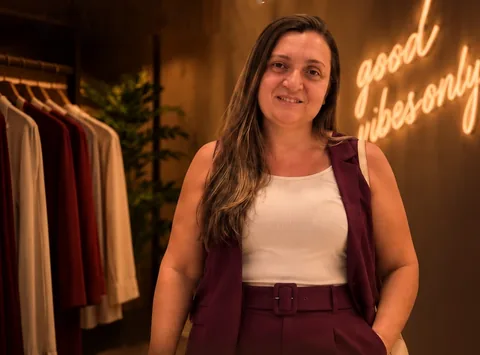
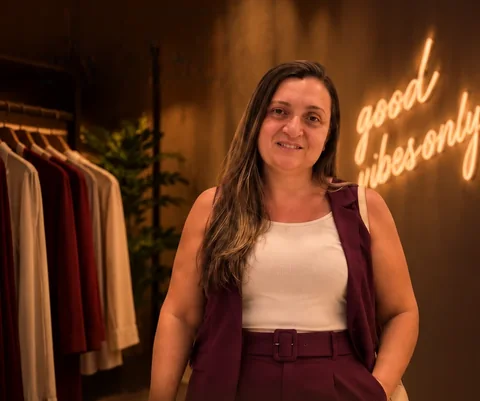
Fix about portrait crop; keep hero layers together on scroll
- About: new portrait crop with headroom above Fabielly's head (title
  text removed from that area with LaMa), anchored to the top, without
  the parallax zoom that cut her head; soft top fade on desktop.
- Hero: remove scroll-based layer offsets so the hero scrolls as one
  piece; keep the subtle pointer depth on desktop only.

Claude-Session: https://claude.ai/code/session_01EprzxDa2SmBVJbX7j6rXJ2

diff --git a/smug-modas/assets/css/styles.css b/smug-modas/assets/css/styles.css
@@ -1292,7 +1292,7 @@ main:focus { outline: none; }
   width: 100%;
   aspect-ratio: 1 / 1.08;
   object-fit: cover;
-  object-position: 66% 0%;
+  object-position: 64% 0%;
 }
 .about__media::after {
   content: '';
@@ -1364,11 +1364,12 @@ main:focus { outline: none; }
     margin: 0 0 0 calc((100vw - min(100vw - 2 * var(--gutter), var(--container))) / -2);
     min-height: 620px;
   }
-  .about__photo { height: 100%; aspect-ratio: auto; object-position: 62% 10%; }
+  .about__photo { height: 100%; aspect-ratio: auto; object-position: 58% 0%; }
   .about__media::after {
     background:
       linear-gradient(270deg, var(--about-bg) 0%, rgba(46, 25, 16, 0.35) 20%, rgba(46, 25, 16, 0) 45%),
-      linear-gradient(0deg, var(--about-bg) 0%, rgba(46, 25, 16, 0) 30%);
+      linear-gradient(0deg, var(--about-bg) 0%, rgba(46, 25, 16, 0) 30%),
+      linear-gradient(180deg, var(--about-bg) 0%, rgba(46, 25, 16, 0) 9%);
   }
   .about__content { grid-area: content; }
   .about__quote { margin: 0.7em 0 1em; text-align: left; }
@@ -1838,8 +1839,9 @@ textarea.field__input { min-height: 132px; padding-top: 30px; resize: vertical; 
   100% { transform: scaleY(0); }
 }
 
-/* Câmera: aproximação inicial e respiração lenta; parallax por variáveis (--p, --mx, --my) */
-.hero__bg { translate: calc(var(--mx, 0) * -9px) calc(var(--p, 0) * 24% + var(--my, 0) * -6px); }
+/* Câmera: aproximação inicial e respiração lenta; profundidade com o mouse (--mx, --my).
+   Ao rolar, a hero se move inteira, sem deslocar camadas. */
+.hero__bg { translate: calc(var(--mx, 0) * -9px) calc(var(--my, 0) * -6px); }
 .hero__bg-layer { position: absolute; inset: 0; overflow: hidden; }
 .hero__bg-img { animation: camera-in 2.8s cubic-bezier(0.16, 1, 0.3, 1) both, camera-drift 24s ease-in-out 2.8s infinite alternate; }
 @keyframes camera-in {
@@ -1921,7 +1923,7 @@ textarea.field__input { min-height: 132px; padding-top: 30px; resize: vertical; 
 }
 
 /* SMUG: letras sobem por trás de uma linha, com sombra projetada pelo sol */
-.hero__brand { translate: calc(var(--mx, 0) * -12px) calc(var(--my, 0) * -7px + var(--p, 0) * 9%); }
+.hero__brand { translate: calc(var(--mx, 0) * -12px) calc(var(--my, 0) * -7px); }
 .hero__brand-word { display: inline-block; text-shadow: -0.035em 0.05em 0.06em rgba(70, 30, 18, 0.2); }
 .hero__letter {
   display: inline-block;
@@ -1935,7 +1937,7 @@ textarea.field__input { min-height: 132px; padding-top: 30px; resize: vertical; 
 /* Fabielly: entra em foco, com leve sombra na parede */
 .hero__figure {
   filter: drop-shadow(-0.5vw 0.9vw 1.2vw rgba(60, 28, 12, 0.2));
-  translate: calc(var(--mx, 0) * -20px) calc(var(--my, 0) * -9px + var(--p, 0) * -3%);
+  translate: calc(var(--mx, 0) * -20px) calc(var(--my, 0) * -9px);
 }
 .hero__photo { animation: focus-in 1.7s cubic-bezier(0.16, 1, 0.3, 1) 0.6s both; }
 @keyframes focus-in {
@@ -1944,7 +1946,7 @@ textarea.field__input { min-height: 132px; padding-top: 30px; resize: vertical; 
 }
 
 /* Frase: letras se aproximam (tracking) enquanto aparecem */
-.hero__tagline { translate: calc(var(--mx, 0) * -8px) calc(var(--p, 0) * 14%); }
+.hero__tagline { translate: calc(var(--mx, 0) * -8px) 0; }
 .hero__tagline-line { display: block; animation: track-in 1.5s cubic-bezier(0.16, 1, 0.3, 1) calc(1.55s + var(--d, 0ms)) both; }
 @keyframes track-in {
   from { opacity: 0; letter-spacing: 0.75em; filter: blur(3px); }

diff --git a/smug-modas/assets/js/main.js b/smug-modas/assets/js/main.js
@@ -234,10 +234,11 @@ function initAnimScopes() {
   document.querySelectorAll('[data-anim-scope]').forEach((el) => observer.observe(el));
 }
 
-// Hero: profundidade ao rolar (--p) e ao mover o mouse (--mx/--my), suavizada a cada quadro
+// Hero: profundidade ao mover o mouse (--mx/--my, só desktop), suavizada a cada quadro.
+// Ao rolar, as camadas não se deslocam: a hero sobe inteira.
 function initHeroDepth() {
   const hero = document.querySelector('.hero');
-  if (!hero || reducedMotion.matches) return;
+  if (!hero || reducedMotion.matches || !finePointer.matches) return;
   let inView = true;
   let frame = 0;
   const target = { x: 0, y: 0 };
@@ -247,8 +248,6 @@ function initHeroDepth() {
     frame = 0;
     current.x += (target.x - current.x) * 0.08;
     current.y += (target.y - current.y) * 0.08;
-    const progress = clamp(window.scrollY / hero.offsetHeight, 0, 1);
-    hero.style.setProperty('--p', progress.toFixed(4));
     hero.style.setProperty('--mx', current.x.toFixed(4));
     hero.style.setProperty('--my', current.y.toFixed(4));
     if (Math.abs(target.x - current.x) > 0.002 || Math.abs(target.y - current.y) > 0.002) request();
@@ -261,9 +260,7 @@ function initHeroDepth() {
     inView = entry.isIntersecting;
     request();
   }).observe(hero);
-  window.addEventListener('scroll', request, { passive: true });
   hero.addEventListener('pointermove', (event) => {
-    if (!finePointer.matches) return;
     const rect = hero.getBoundingClientRect();
     target.x = ((event.clientX - rect.left) / rect.width) * 2 - 1;
     target.y = ((event.clientY - rect.top) / rect.height) * 2 - 1;

diff --git a/smug-modas/index.html b/smug-modas/index.html
@@ -355,7 +355,7 @@
     </header>
 
     <figure class="about__media" data-reveal="zoom">
-      <span class="parallax" data-parallax="0.1"><img class="about__photo" src="assets/img/fabielly-retrato.webp" srcset="assets/img/fabielly-retrato-480.webp 480w, assets/img/fabielly-retrato.webp 852w" sizes="(min-width: 1024px) 50vw, 100vw" width="852" height="630" alt="Fabielly dentro da SMUG MODAS, ao lado de araras de roupas e do letreiro neon “good vibes only”." loading="lazy" decoding="async"></span>
+      <img class="about__photo" src="assets/img/fabielly-retrato.webp" srcset="assets/img/fabielly-retrato-480.webp 480w, assets/img/fabielly-retrato.webp 852w" sizes="(min-width: 1024px) 50vw, 100vw" width="852" height="712" alt="Fabielly dentro da SMUG MODAS, ao lado de araras de roupas e do letreiro neon “good vibes only”." loading="lazy" decoding="async">
     </figure>
 
     <div class="about__content">

diff --git a/smug-modas/README.md b/smug-modas/README.md
@@ -88,7 +88,7 @@ referências (sem textos ou botões embutidos), e os títulos, textos e botões 
 | --- | --- | --- |
 | `fabielly-hero.webp` | referência do Início | recorte com remoção de fundo, para ficar à frente do “SMUG” em HTML |
 | `hero-fundo.webp` | imagem de referência desktop do Início | parede com a luz do sol, planta e piso; letras, pessoa, header e painel removidos (LaMa + interpolação ao longo dos feixes de luz) |
-| `fabielly-retrato*.webp` | referência Sobre | restos do título “Fabielly” removidos por preenchimento |
+| `fabielly-retrato*.webp` | referência Sobre | inclui o espaço acima da cabeça; textos “SOBRE A” e “Fabielly” removidos (LaMa) |
 | `loja-ambiente*.webp` | referência Nossa loja | área fotográfica completa |
 | `categorias-loja.webp`, `cat-*.webp` | referência Categorias | só a parte da foto acima dos rótulos |
 | `contato-recepcao.webp` | referência Contato | lado direito da foto (recepção) |
@@ -131,8 +131,8 @@ Quando a loja existir, troque cada botão pelo link ou ação real e remova o av
   lenta (Ken Burns), as letras de SMUG sobem uma a uma com sombra do sol, a Fabielly entra em foco, a frase fecha
   o espaçamento das letras e o painel recebe um reflexo de luz. Depois disso ficam em movimento contínuo e suave:
   o brilho do sol, uma faixa de luz pela parede, sombras de folhas balançando, poeira na luz e grão de filme.
-- **Profundidade:** as camadas da hero se deslocam em velocidades diferentes ao rolar e ao mover o mouse
-  (desktop); as fotos da loja e da Fabielly têm um leve parallax.
+- **Profundidade:** no desktop, as camadas da hero se deslocam levemente com o mouse. Ao rolar, a hero sobe
+  inteira (sem deslocar camadas). A foto da loja tem um leve parallax dentro da moldura.
 - **Seções:** títulos aparecem palavra por palavra, fotos abrem com uma “cortina”, linhas douradas e ícones se
   desenham, cards de categoria inclinam em 3D com brilho, botões têm reflexo, a assinatura é “escrita”, há uma
   faixa em movimento após a hero, barra de progresso de leitura e a marca SMUG gigante no rodapé.
